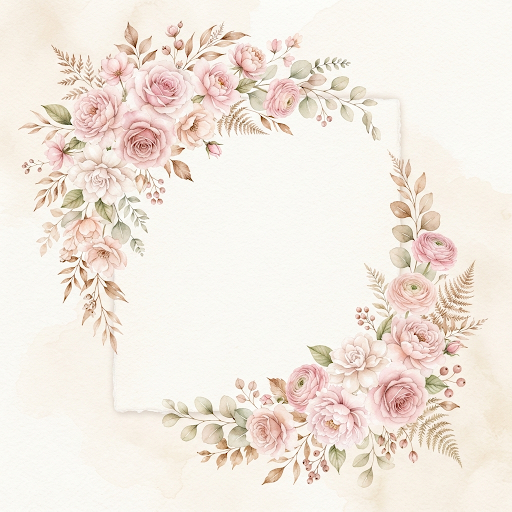
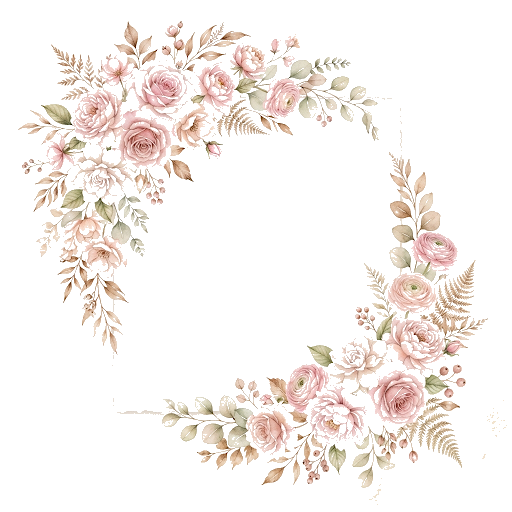
Çiçek görsellerinin krem arka plan uyumsuzluğunu düzelt
Gömülü arka plan transparan PNG yapıldı; kart rengi #F8F5EE ile tek parça görünüm sağlandı.

diff --git a/index.html b/index.html
@@ -16,14 +16,19 @@
   <meta http-equiv="Cache-Control" content="no-cache, no-store, must-revalidate">
   <meta http-equiv="Pragma" content="no-cache">
   <meta http-equiv="Expires" content="0">
-  <link rel="stylesheet" href="styles.css?v=20260901-20">
+  <link rel="stylesheet" href="styles.css?v=20260901-21">
   <style>
     /* Kritik davetiye kartı — eski CSS önbelleğine karşı */
     .invitation-card,
     .hero,
     .env-letter-paper {
-      background: #f7f5ef !important;
+      background: #F8F5EE !important;
       border: 1px solid #e5dfd3 !important;
+    }
+    .invitation-floral {
+      opacity: 1 !important;
+      background: transparent !important;
+      mix-blend-mode: normal !important;
     }
     .invitation-names,
     .couple-names,
@@ -88,7 +93,7 @@
 
       <div class="env-letter">
         <div class="env-letter-paper invitation-card invitation-card--envelope">
-          <img class="invitation-floral invitation-floral-top" src="https://yarenazrakbas.github.io/yaren-berke-nisan/images/hero-floral-top.png?v=20" alt="" aria-hidden="true">
+          <img class="invitation-floral invitation-floral-top" src="https://yarenazrakbas.github.io/yaren-berke-nisan/images/hero-floral-top.png?v=21" alt="" aria-hidden="true">
           <div class="invitation-inner">
             <p class="invitation-subtitle">Nişanımızı birlikte kutlamak için<br>davetlisiniz</p>
             <h2 class="invitation-names">
@@ -100,7 +105,7 @@
             <p class="invitation-welcome">Nişanımıza Hoşgeldiniz</p>
             <p class="invitation-date">26 Eylül 2026</p>
           </div>
-          <img class="invitation-floral invitation-floral-bottom" src="https://yarenazrakbas.github.io/yaren-berke-nisan/images/hero-floral-bottom.png?v=20" alt="" aria-hidden="true">
+          <img class="invitation-floral invitation-floral-bottom" src="https://yarenazrakbas.github.io/yaren-berke-nisan/images/hero-floral-bottom.png?v=21" alt="" aria-hidden="true">
         </div>
       </div>
 
@@ -122,7 +127,7 @@
 
     <!-- Hero Card -->
     <section class="hero invitation-card invitation-card--hero">
-      <img class="invitation-floral invitation-floral-top" src="https://yarenazrakbas.github.io/yaren-berke-nisan/images/hero-floral-top.png?v=20" alt="" aria-hidden="true">
+      <img class="invitation-floral invitation-floral-top" src="https://yarenazrakbas.github.io/yaren-berke-nisan/images/hero-floral-top.png?v=21" alt="" aria-hidden="true">
       <div class="invitation-inner">
         <p class="invitation-subtitle">Nişanımızı birlikte kutlamak için<br>davetlisiniz</p>
         <h1 class="invitation-names">
@@ -135,7 +140,7 @@
         <p class="invitation-date">26 Eylül 2026</p>
         <a href="#rsvp" class="btn-confirm">Katılımını onayla</a>
       </div>
-      <img class="invitation-floral invitation-floral-bottom" src="https://yarenazrakbas.github.io/yaren-berke-nisan/images/hero-floral-bottom.png?v=20" alt="" aria-hidden="true">
+      <img class="invitation-floral invitation-floral-bottom" src="https://yarenazrakbas.github.io/yaren-berke-nisan/images/hero-floral-bottom.png?v=21" alt="" aria-hidden="true">
     </section>
 
     <!-- Countdown -->
@@ -301,6 +306,6 @@
     </svg>
   </button>
 
-  <script src="script.js?v=20260901-20"></script>
+  <script src="script.js?v=21260901-20"></script>
 </body>
 </html>

diff --git a/styles.css b/styles.css
@@ -149,7 +149,7 @@ body.envelope-locked {
 /* ===== Davetiye Kartı (zarf + hero ortak) ===== */
 .invitation-card {
   position: relative;
-  background: #f7f5ef;
+  background: #F8F5EE;
   color: var(--text-dark);
   text-align: center;
   overflow: hidden;
@@ -177,8 +177,10 @@ body.envelope-locked {
   width: 62%;
   height: auto;
   display: block;
-  opacity: 0.9;
+  opacity: 1;
   pointer-events: none;
+  background: transparent;
+  mix-blend-mode: normal;
 }
 
 .invitation-floral-top {
@@ -1059,7 +1061,7 @@ body.envelope-locked {
 
   .hero,
   .invitation-card--envelope {
-    background-color: #f7f5ef !important;
+    background-color: #F8F5EE !important;
     color: #2c2c2c !important;
   }
 
